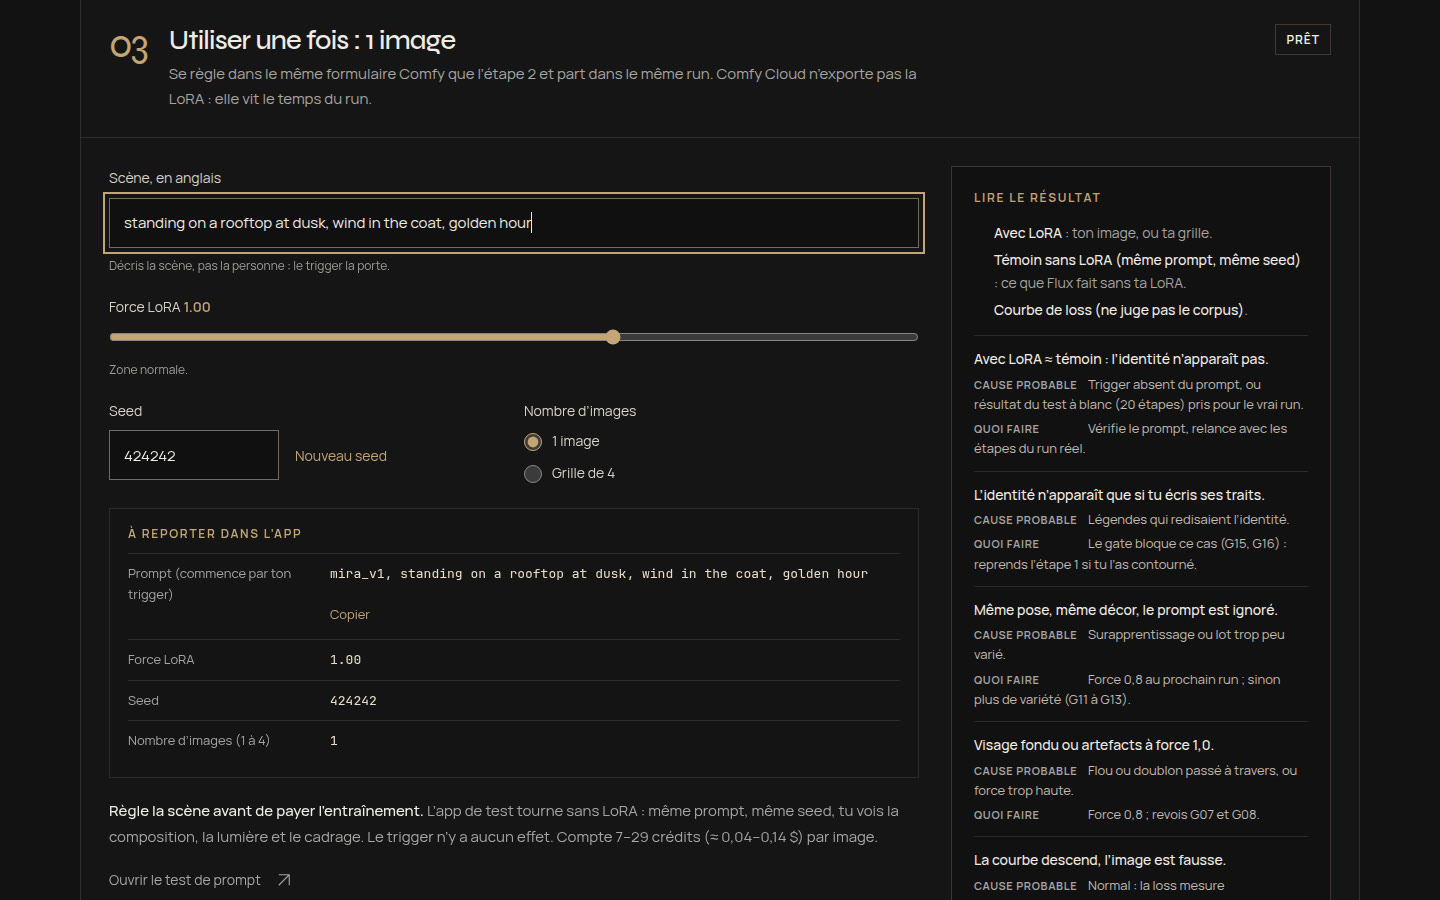
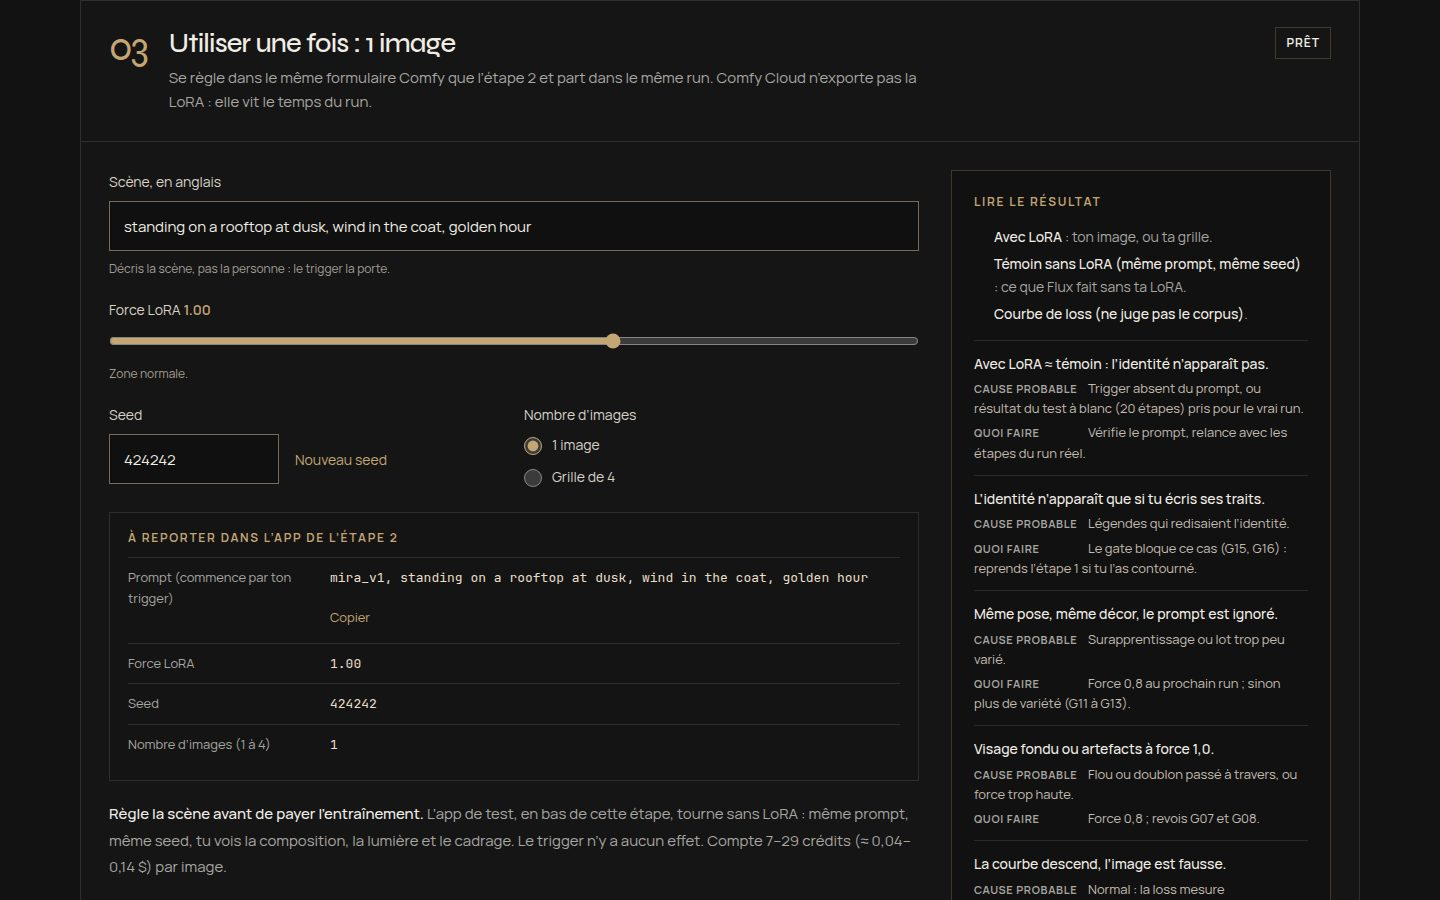
docs: record the Comfy embed checks and refresh step screenshots

diff --git a/docs/QA.md b/docs/QA.md
@@ -38,6 +38,26 @@ Jeu de test : 20 images synthétiques générées par ffmpeg. 15 compositions di
 - Juste après l’import, le gate affichait FAIL en rouge alors que rien n’était faux. L’information manquante apparaît maintenant « À faire » ; FAIL est réservé aux violations. Le PASS reste aussi strict.
 - Étape 3 : boutons radio collés à leur libellé, bouton « Nouveau seed » sur deux lignes, tableau de diagnostic trop serré. Corrigés, le diagnostic devient une liste.
 
+## Cadre Comfy dans le guide
+
+Vérification du 2026-09-24, branche `cursor/comfy-app-embed-1a7e`. Build GitHub Pages (`GITHUB_PAGES=true`, `NEXT_PUBLIC_BASE_PATH=/U-TTU-Studio`) servi sous le sous-chemin, en HTTPS local (certificat autosigné) puis en HTTP. Chrome headless, 15 images synthétiques jusqu’au PASS. Sans compte Comfy tiers, rien n’est vérifié après la page de connexion Comfy.
+
+| Contrôle | Résultat |
+| --- | --- |
+| `npm test` (39/39), `npm run typecheck`, `npm run build`, build Pages | PASS |
+| Avant PASS : étapes 2 et 3 fermées, aucun iframe | PASS |
+| Après PASS : cadre de l’étape 2 sur `?share=798eb224b972`, cadre de l’étape 3 sur `?share=25954f3b0278`, 900 px de haut à 1 440 × 1 100 | PASS |
+| « Ouvrir en plein onglet » au-dessus de chaque cadre : même URL, `target="_blank"`, `rel="noopener noreferrer"` | PASS |
+| ZIP, « Copier les 15 lignes » et coût au-dessus du cadre ; panneaux collants « Coût avant le run » et « Lire le résultat » jamais par-dessus le cadre | PASS |
+| Note sous le cadre : compte et crédits du client, test à blanc d’abord, images locales jusqu’au dépôt, repli plein onglet | PASS |
+| HTTPS : Chrome charge `cloud.comfy.org` dans les deux cadres (page de connexion), `previousFullPath` garde chaque `?share=` | PASS |
+| HTTP : avertissement à la place du cadre, plein onglet conservé | PASS |
+| 390 et 320 px : pas de débordement horizontal ; cadre de 290 × 796 px à 390 px | PASS |
+| Aucune trace de Look-Lock dans le HTML ; nav : Le piège, Le parcours, Le coût, Accès anticipé | PASS |
+| Aucune erreur JavaScript sur la page du studio | PASS |
+
+Défaut trouvé et corrigé : les panneaux collants « Coût avant le run » et « Lire le résultat » passaient par-dessus le cadre pendant le défilement. Le panneau Comfy est sorti de leur grille.
+
 ## Captures
 
 | Écran | Fichier |
@@ -46,6 +66,7 @@ Jeu de test : 20 images synthétiques générées par ffmpeg. 15 compositions di
 | Gate PASS | [gate-pass-desktop.jpg](screenshots/gate-pass-desktop.jpg) |
 | Gate FAIL (G15) | [gate-fail-desktop.jpg](screenshots/gate-fail-desktop.jpg) |
 | Étape 2, coût | [train-step-desktop.jpg](screenshots/train-step-desktop.jpg) |
+| Étape 2, app Comfy dans la page | [comfy-panel-desktop.jpg](screenshots/comfy-panel-desktop.jpg) |
 | Étape 3 | [image-step-desktop.jpg](screenshots/image-step-desktop.jpg) |
 | Mobile | [hero-mobile.jpg](screenshots/hero-mobile.jpg), [guide-mobile.jpg](screenshots/guide-mobile.jpg) |
 
@@ -54,5 +75,5 @@ Jeu de test : 20 images synthétiques générées par ffmpeg. 15 compositions di
 - Aucun entraînement réel n’a été exécuté. Le comportement de `TrainLoraNode` sur Flux.1 [dev] dans Comfy Cloud, les durées et la qualité restent à mesurer par la calibration ([COMFY-STACK.md](COMFY-STACK.md#coût--modèle-et-calibration)).
 - Les seuils du gate sont validés sur des images synthétiques, pas sur des datasets clients.
 - Vérifié dans Chrome uniquement : ni Safari, ni Firefox, ni appareil physique.
-- L’ouverture du lien de partage en App Mode côté client n’a pas pu être vérifiée sans compte Comfy tiers. Les snapshots importés ont `linearMode: true`. Un navigateur non connecté est renvoyé vers la connexion Comfy, y compris dans l’iframe.
-- Connexion Comfy à l’intérieur de l’iframe : non vérifiée (cookies tiers). Repli prévu : « Ouvrir en plein onglet », même URL.
+- L’écran App Mode connecté n’a pas été vu sans compte Comfy tiers. Le frontend Comfy ouvre un partage dans la vue de `extra.linearMode`, qui vaut `true` pour les deux snapshots.
+- Connexion Comfy dans le cadre : non vérifiée. Repli : « Ouvrir en plein onglet », même URL.

diff --git a/docs/DECISIONS.md b/docs/DECISIONS.md
@@ -14,7 +14,7 @@ Registre de vérité U*TTU : chaque ligne est un **fait**, une **hypothèse**, u
 | Dataset fixé à 15 images exactement. | Livraison, imposé par les emplacements fixes de l’App Mode | 2026-09-24 |
 | FAIL réservé aux violations ; information manquante en « À faire » ; PASS exige tout en PASS. | Livraison, après QA | 2026-09-24 |
 | Aucun crédit Comfy dépensé pendant la livraison. Premier run = calibration par JD. | Livraison | 2026-09-24 |
-| Après PASS, les apps Comfy s’affichent dans la page (iframe) avec repli « Ouvrir en plein onglet ». Pas de proxy, pas de crédits Studio, pas de préremplissage des 15 images. | Livraison | 2026-09-24 |
+| Après PASS, les deux apps Comfy s’affichent dans la page (iframe), avec « Ouvrir en plein onglet » au-dessus de chaque cadre. Pas de proxy, pas de crédits Studio, pas de préremplissage des 15 images. Ne débloque pas la vente. | Livraison | 2026-09-24 |
 
 ## Faits
 
@@ -24,6 +24,8 @@ Registre de vérité U*TTU : chaque ligne est un **fait**, une **hypothèse**, u
 - Les deux workflows passent la validation `submit_workflow` en `dry_run`. Ils sont sauvegardés dans le workspace Comfy (records `e8d7c649…` et `d5746aa7…`, version 2 avec App Mode) et partagés en `?share=798eb224b972` et `?share=25954f3b0278`.
 - Les graphes versionnés dans `public/comfy/` correspondent au générateur, lien par lien et valeur par valeur (`tests/comfy.test.ts`).
 - QA E2E sur Chrome avec 20 images synthétiques : chaque piège est signalé, le PASS n’arrive qu’avec 15 images propres, le ZIP est valide ([QA.md](QA.md)).
+- `cloud.comfy.org` envoie `frame-ancestors 'self' https:`, sans `X-Frame-Options` (2026-09-24). Chrome affiche la connexion Comfy dans les cadres du guide servi en HTTPS ; une page HTTP est refusée ([QA.md](QA.md#cadre-comfy-dans-le-guide)).
+- Frontend Comfy (`useSharedWorkflowUrlLoader.ts`, `workflowService.ts`) : un `?share=` passe par la connexion, puis la fenêtre « Open shared workflow », puis charge le graphe dans la vue donnée par `extra.linearMode`. Les snapshots `798eb224b972` et `25954f3b0278` ont `linearMode: true`.
 
 ## Hypothèses — à mesurer
 
@@ -31,8 +33,8 @@ Registre de vérité U*TTU : chaque ligne est un **fait**, une **hypothèse**, u
 - 800 étapes, lr 4e-4 et rank 16 sur 15 images suffisent pour une identité reconnaissable (réglages proches des entraîneurs Flux « rapides » courants). Non vérifié sur Comfy.
 - Le `TrainLoraNode` du core entraîne correctement Flux.1 [dev] : implémentation générique, flow-matching géré par `model_sampling`. Node marqué expérimental.
 - Les seuils de netteté (100 absolu, 35 % de la médiane) et de couleur (3,5 MAD) détectent assez de problèmes sans trop de faux positifs sur des photos réelles. Calibrés uniquement sur des images synthétiques.
-- Un lien `?share=` ouvre l’App Mode. Comfy indique qu’il peut s’ouvrir sur le graphe tant que le partage App Mode complet n’est pas disponible. Les snapshots `798eb224b972` et `25954f3b0278` ont `linearMode: true` (import du 2026-09-24). L’UI connectée n’a pas été revue : un visiteur anonyme tombe sur la page de connexion Comfy.
-- CSP de `cloud.comfy.org` le 2026-09-24 : `frame-ancestors 'self' https:'`, pas de `X-Frame-Options`. L’iframe ne charge donc que depuis une page HTTPS.
+- Un lien `?share=` ouvre l’App Mode une fois connecté. C’est ce que fait le code du frontend Comfy ; l’écran connecté n’a pas été vu.
+- La connexion Comfy fonctionne dans le cadre. Sa session vit en localStorage et IndexedDB, partitionnés dans un cadre tiers : une connexion de plus est attendue. Non vérifié sans compte tiers ; repli : « Ouvrir en plein onglet ».
 
 ## Propositions — non vérifiées, décision JD
 

diff --git a/docs/COMFY-STACK.md b/docs/COMFY-STACK.md
@@ -78,11 +78,16 @@ UNETLoader, encodeurs Flux, `CLIPTextEncode`, FluxGuidance, KSampler (seed parta
 
 ## Affichage dans le guide
 
-Après PASS, `ComfyRunPanel` embarque `COMFY_APPS.train.url` (étape 2) et `COMFY_APPS.prompt.url` (étape 3). Le ZIP, les légendes et le coût restent dans la page : le client dépose toujours les 15 images dans Comfy.
+Après PASS, `ComfyRunPanel` affiche `COMFY_APPS.train.url` en bas de l’étape 2 et `COMFY_APPS.prompt.url` en bas de l’étape 3, dans un iframe de 640 à 900 px de haut. Le ZIP, les légendes et le coût restent au-dessus. Le client dépose toujours lui-même les 15 images et colle les légendes dans Comfy. « Ouvrir en plein onglet », même URL, est au-dessus de chaque cadre.
 
-CSP Comfy vérifiée le 2026-09-24 : `frame-ancestors 'self' https:'`, aucun `X-Frame-Options`. Une page HTTP (le `next dev` local) ne peut pas encadrer Comfy ; le panneau le dit et garde « Ouvrir en plein onglet ». Les cookies de session dans l’iframe ne sont pas garantis : si la connexion échoue dans le cadre, le même lien en plein onglet est le repli.
+| Fait (2026-09-24) | Source | Conséquence |
+| --- | --- | --- |
+| `cloud.comfy.org` envoie `frame-ancestors 'self' https:`, sans `X-Frame-Options`. | En-têtes HTTP | Cadre accepté depuis GitHub Pages. Refusé depuis une page HTTP, dont `next dev` : le panneau affiche un avertissement à la place du cadre. |
+| Dans Chrome, les deux cadres chargent la page de connexion Comfy ; chaque `?share=` reste dans `previousFullPath`. | Smoke sur le build Pages ([QA.md](QA.md#cadre-comfy-dans-le-guide)) | L’embed fonctionne jusqu’à la connexion, et chaque cadre garde son workflow. |
+| Après connexion, un `?share=` ouvre la fenêtre « Open shared workflow », puis charge le graphe dans la vue donnée par `extra.linearMode`. | Frontend Comfy : `useSharedWorkflowUrlLoader.ts`, `workflowService.ts` | Les deux snapshots ont `linearMode: true` : App Mode attendu. Liens non régénérés. |
+| La session Comfy (Firebase) est gardée dans le localStorage et l’IndexedDB de `cloud.comfy.org`. | Frontend Comfy : `firebaseIdentity.ts` | Ce stockage est partitionné dans un cadre tiers : le client se connecte une fois dans le cadre, même s’il l’est déjà dans un autre onglet. |
 
-Les deux snapshots ont `extra.linearMode: true` (import du 2026-09-24, entrées et sorties App Mode présentes). Pas de nouveau workflow pour cet affichage.
+Non vérifié sans compte Comfy tiers : la connexion (Google, GitHub ou e-mail) dans le cadre et l’écran App Mode connecté. Repli : « Ouvrir en plein onglet ».
 
 ## Coût : modèle et calibration
 

diff --git a/README.md b/README.md
@@ -38,7 +38,7 @@ npm run dev          # http://localhost:3000
 
 | Commande | Rôle |
 | --- | --- |
-| `npm test` | 38 tests : règles du gate, légendes, mesures d’image, ZIP (vérifié par `unzip -t`), cohérence des workflows Comfy, coûts et plafond de durée. |
+| `npm test` | 39 tests : règles du gate, légendes, mesures d’image, ZIP (vérifié par `unzip -t`), cohérence des workflows Comfy, liens App Mode, coûts et plafond de durée. |
 | `npm run typecheck` | TypeScript strict. |
 | `npm run build` | Build de production (`next build --webpack`). |
 | `npm run comfy:build` | Régénère `comfy/*.api.json` à partir de `src/lib/comfy-stack.ts`. |
@@ -56,7 +56,7 @@ npm run dev          # http://localhost:3000
 
 Le **test à blanc** n’est pas un troisième workflow. C’est le premier, lancé avec 20 étapes et 1 image, qui sont ses valeurs par défaut. Les images déposées restent en place pour le vrai run.
 
-Après un PASS du gate, le guide affiche ces deux apps dans la page. Le lien « Ouvrir en plein onglet » reste sous chaque cadre : la session Comfy dans un iframe n’est pas garantie, et une page HTTP ne peut pas encadrer Comfy.
+Après un PASS du gate, le guide affiche ces deux apps dans la page. « Ouvrir en plein onglet » reste au-dessus de chaque cadre : la connexion Comfy dans un iframe n’est pas garantie, et une page HTTP, dont `next dev`, ne peut pas encadrer Comfy. Pour voir les cadres en local, servir le build en HTTPS.
 
 ### Créer les workflows dans Comfy Cloud
 
